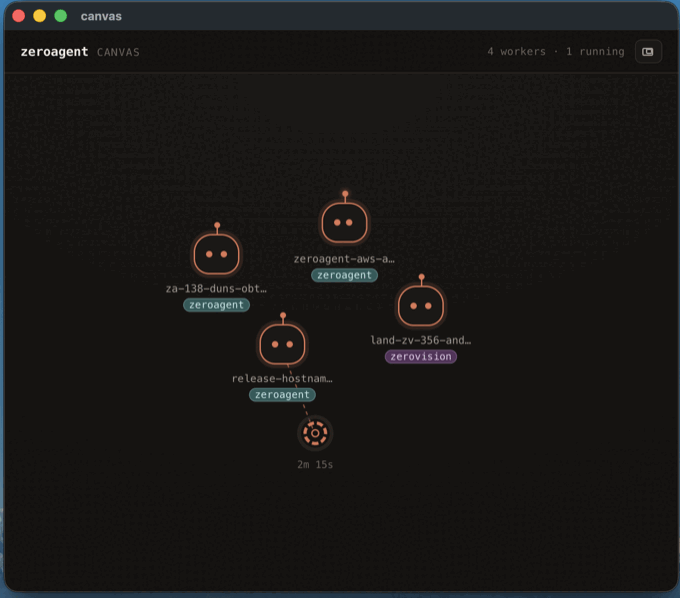
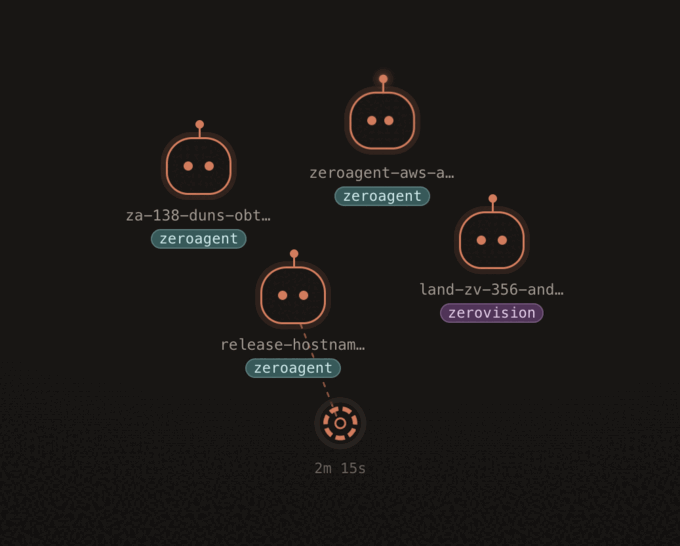
Crop the zeroagent hero to the canvas, drop the pasted-glow frame (#8)
The blue was baked into the source screenshot as a thin backdrop rim
around the captured window, not a CSS effect. Recrop 1-hero to the
canvas area alone, centred on the four worker bots with the window
chrome and blue edge cropped away, then regenerate the 1x/2x web
derivatives (palette-reduced to 256 colors) and the OG image from the
same crop, bumped to v2. Swap the hero's box-shadow for a hairline
border matching the screenshot grid below it.

diff --git a/zeroagent/index.html b/zeroagent/index.html
@@ -31,7 +31,7 @@
 	<meta property="og:title" content="ZeroAgent: The Lead Agent for Your Claude Code Team" />
 	<meta property="og:description" content="ZeroAgent is the lead agent that dispatches, checks on and lands work from a team of coding agents on your Mac. Free, local, works with Claude Code, no account." />
 	<meta property="og:url" content="https://mvplean.com/zeroagent/" />
-	<meta property="og:image" content="https://mvplean.com/static/images/zeroagent/web/og-zeroagent-v1.png" />
+	<meta property="og:image" content="https://mvplean.com/static/images/zeroagent/web/og-zeroagent-v2.png" />
 	<meta property="og:image:width" content="1200" />
 	<meta property="og:image:height" content="630" />
 	<meta property="og:image:alt" content="The ZeroAgent canvas showing four worker creatures spread across two repositories, with a background script running as a gear icon." />
@@ -40,7 +40,7 @@
 	<meta name="twitter:site" content="@mvplean" />
 	<meta name="twitter:title" content="ZeroAgent: The Lead Agent for Your Claude Code Team" />
 	<meta name="twitter:description" content="ZeroAgent is the lead agent that dispatches, checks on and lands work from a team of coding agents on your Mac. Free, local, works with Claude Code, no account." />
-	<meta name="twitter:image" content="https://mvplean.com/static/images/zeroagent/web/og-zeroagent-v1.png" />
+	<meta name="twitter:image" content="https://mvplean.com/static/images/zeroagent/web/og-zeroagent-v2.png" />
 	<meta name="twitter:image:alt" content="The ZeroAgent canvas showing four worker creatures spread across two repositories, with a background script running as a gear icon." />
 
 	<!-- Structured data
@@ -55,7 +55,7 @@
 		"description": "ZeroAgent is the lead agent that dispatches, checks on and lands work from a team of coding agents on your Mac. Free, local, works with Claude Code, no account.",
 		"url": "https://mvplean.com/zeroagent",
 		"downloadUrl": "https://mvplean.com/zeroagent/download",
-		"image": "https://mvplean.com/static/images/zeroagent/web/og-zeroagent-v1.png",
+		"image": "https://mvplean.com/static/images/zeroagent/web/og-zeroagent-v2.png",
 		"screenshot": [
 			"https://mvplean.com/static/images/zeroagent/screenshots/1-hero.png",
 			"https://mvplean.com/static/images/zeroagent/screenshots/3-task-menu.png",
@@ -206,7 +206,7 @@
 						</div>
 						<img src="/static/images/zeroagent/web/1-hero-1x.png"
 							srcset="/static/images/zeroagent/web/1-hero-1x.png 1x, /static/images/zeroagent/web/1-hero-2x.png 2x"
-							width="680" height="598"
+							width="680" height="546"
 							alt="The ZeroAgent canvas showing four worker creatures spread across the zeroagent and zerovision repositories, task titles and repo badges under each one, and a background script running as a gear icon with an elapsed-time readout."
 							class="za-hero-shot topmargin"
 							loading="eager" />

diff --git a/static/css/zeroagent.css b/static/css/zeroagent.css
@@ -170,7 +170,7 @@
 	max-width: 100%;
 	height: auto;
 	border-radius: 6px;
-	box-shadow: 0 20px 60px rgba(0, 0, 0, 0.35);
+	border: 1px solid #333;
 }
 
 .za-card-shot {
